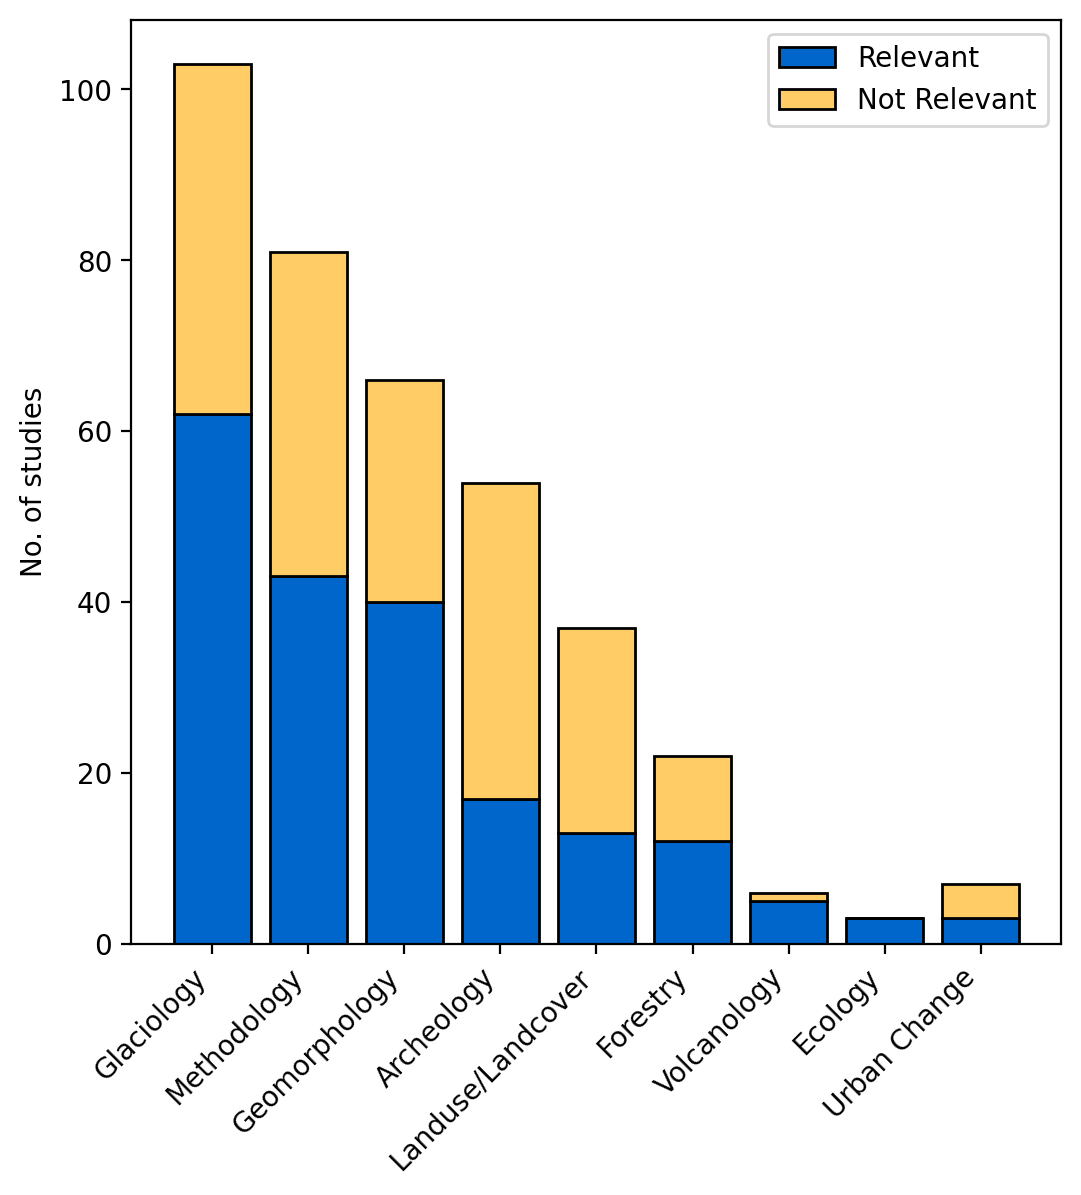
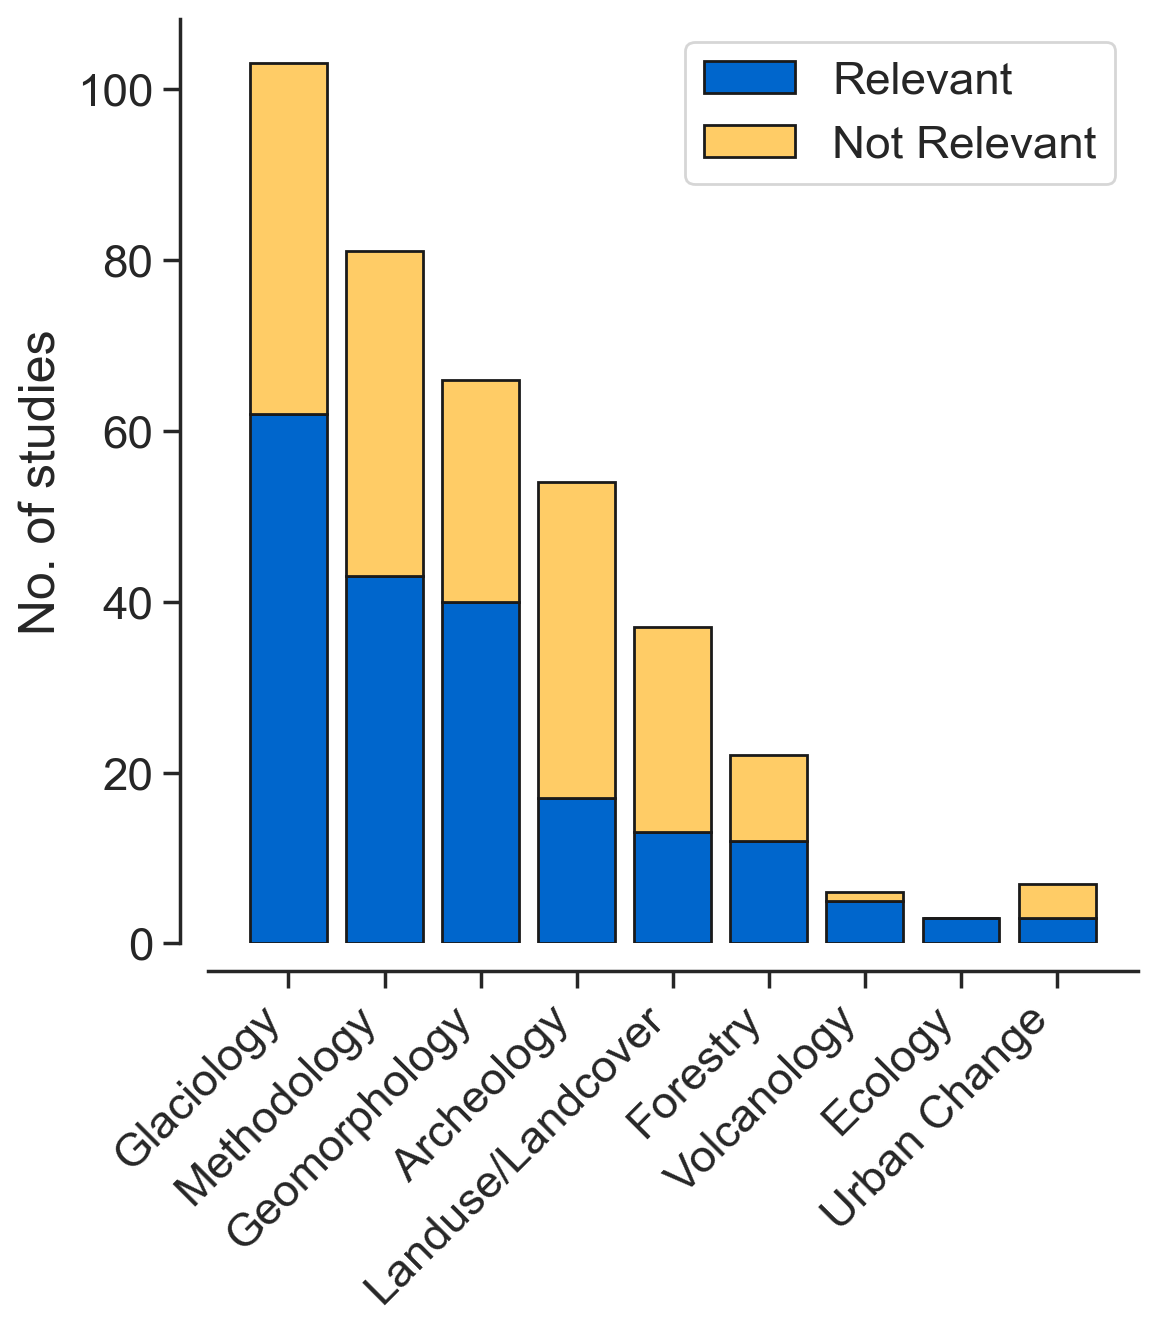
use seaborn style

Changed region(s): [[0.0, 0.0, 1.0, 0.9908], [0.0611, 0.4954, 0.1221, 0.5264]]

diff --git a/scripts/FigA5_RelevantDisciplines.py b/scripts/FigA5_RelevantDisciplines.py
@@ -2,6 +2,7 @@ from pathlib import Path
 import pandas as pd
 import numpy as np
 import matplotlib.pyplot as plt
+import seaborn as sns
 import tools
 
 
@@ -17,6 +18,9 @@ nr_counts = not_relevant.value_counts('Category').rename('Not Relevant')
 
 # combine the tables
 comparison = pd.concat([rel_counts, nr_counts], axis=1).drop(['History of Science', 'Review']).fillna(0).reset_index()
+
+sns.set_theme(font_scale=1.5, style="white")
+sns.set_style('ticks')  # white style with tick marks
 
 fig, ax = plt.subplots(1, 1, figsize=(6, 6))
 
@@ -34,8 +38,9 @@ ax.set_ylabel('No. of studies')
 labels = comparison['Category']
 locs = range(len(labels))
 
-ax.set_xticks(locs, labels, rotation=45, ha='right')
-
 ax.legend()
+
+sns.despine(offset=10, trim=False)
+ax.set_xticks(locs, labels, rotation=45, ha='right')
 
 fig.savefig(Path('figures', 'FigA5_RelevantDisciplines.png'), bbox_inches='tight', dpi=200)
